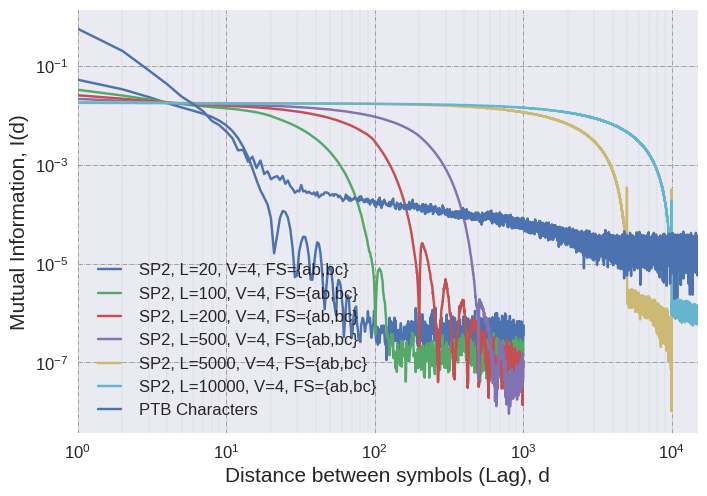
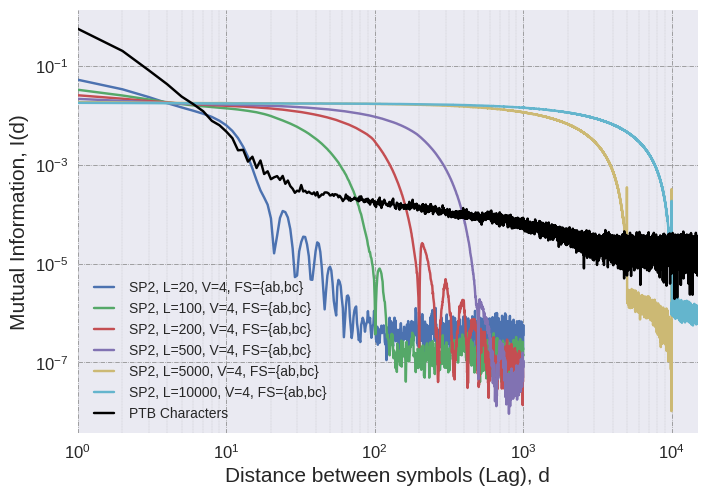
Up

diff --git a/paper_related/spk/plot_sp.py b/paper_related/spk/plot_sp.py
@@ -53,7 +53,7 @@ with plt.style.context(('seaborn')):
     plt.loglog(np.arange(1,len(all_mi[3])+1), all_mi[3], label="SP2, L=500, V=4, FS={ab,bc}")
     plt.loglog(np.arange(1,len(all_mi[22])+1), all_mi[22], label="SP2, L=5000, V=4, FS={ab,bc}")
     plt.loglog(np.arange(1,len(all_mi[23])+1), all_mi[23], label="SP2, L=10000, V=4, FS={ab,bc}")
-    plt.loglog(np.arange(1,len(all_mi[24])+1), all_mi[24], label="PTB Characters")
+    plt.loglog(np.arange(1,len(all_mi[24])+1), all_mi[24], 'k-', label="PTB Characters")
 
     # plt.loglog(np.arange(1,len(all_mi[4])+1), all_mi[4], label="SP2, L=100, V=4, FS={ab,bc}")
     # plt.loglog(np.arange(1,len(all_mi[5])+1), all_mi[5], label="SP4, L=100, V=4, FS={abba,bccb}")
@@ -109,6 +109,6 @@ with plt.style.context(('seaborn')):
     print(ax.get_ylim())
     ax.set_xlabel('Distance between symbols (Lag), d', fontsize=15)
     ax.set_ylabel('Mutual Information, I(d)', fontsize=15)
-    lgd = ax.legend(loc='lower left', shadow=True, fancybox=True, numpoints=3, prop={'size': 12})
+    lgd = ax.legend(loc='lower left', shadow=True, fancybox=True, numpoints=3, prop={'size': 10})
     plt.savefig('reg_grammars_sp_len', bbox_extra_artists=(lgd,), bbox_inches='tight')
     plt.show()
